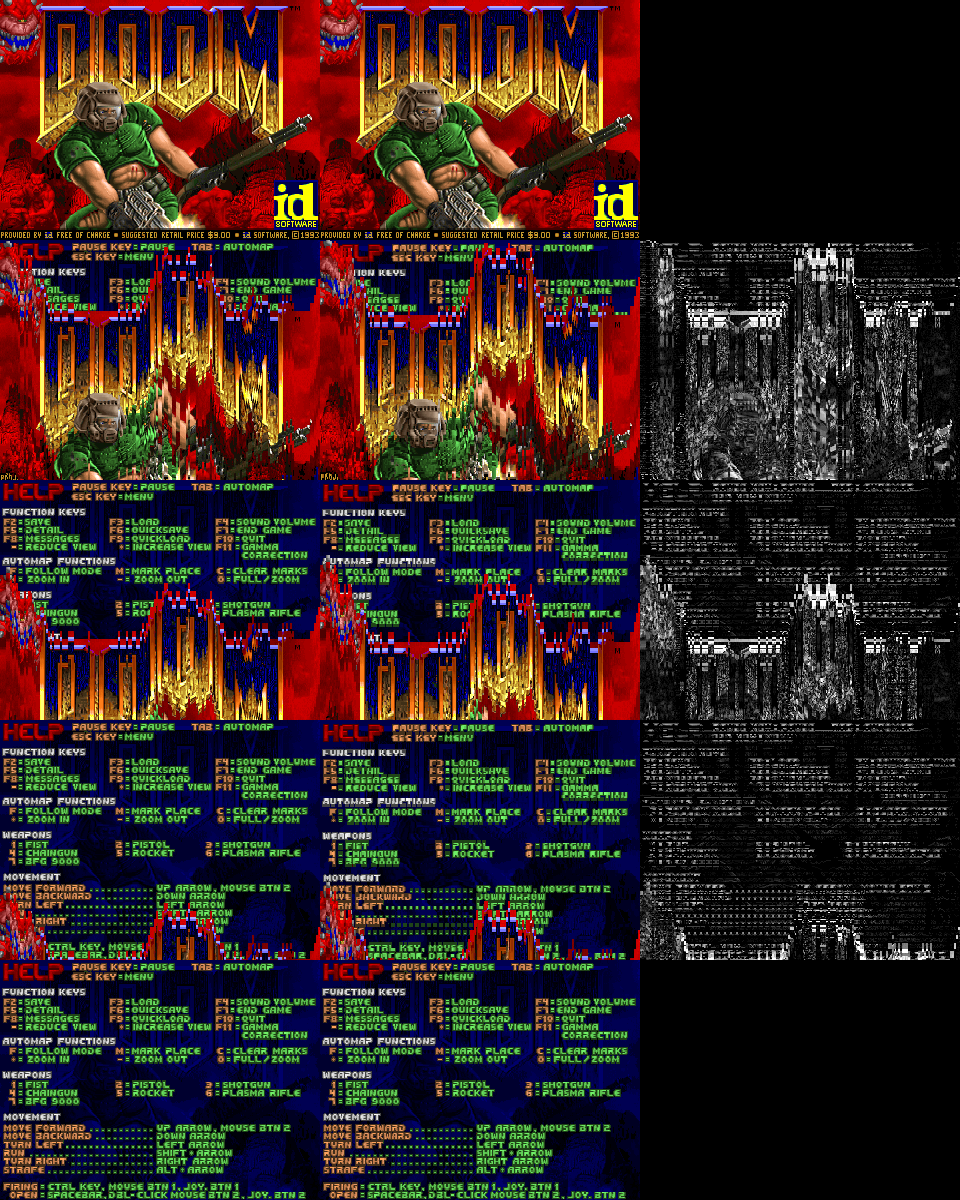
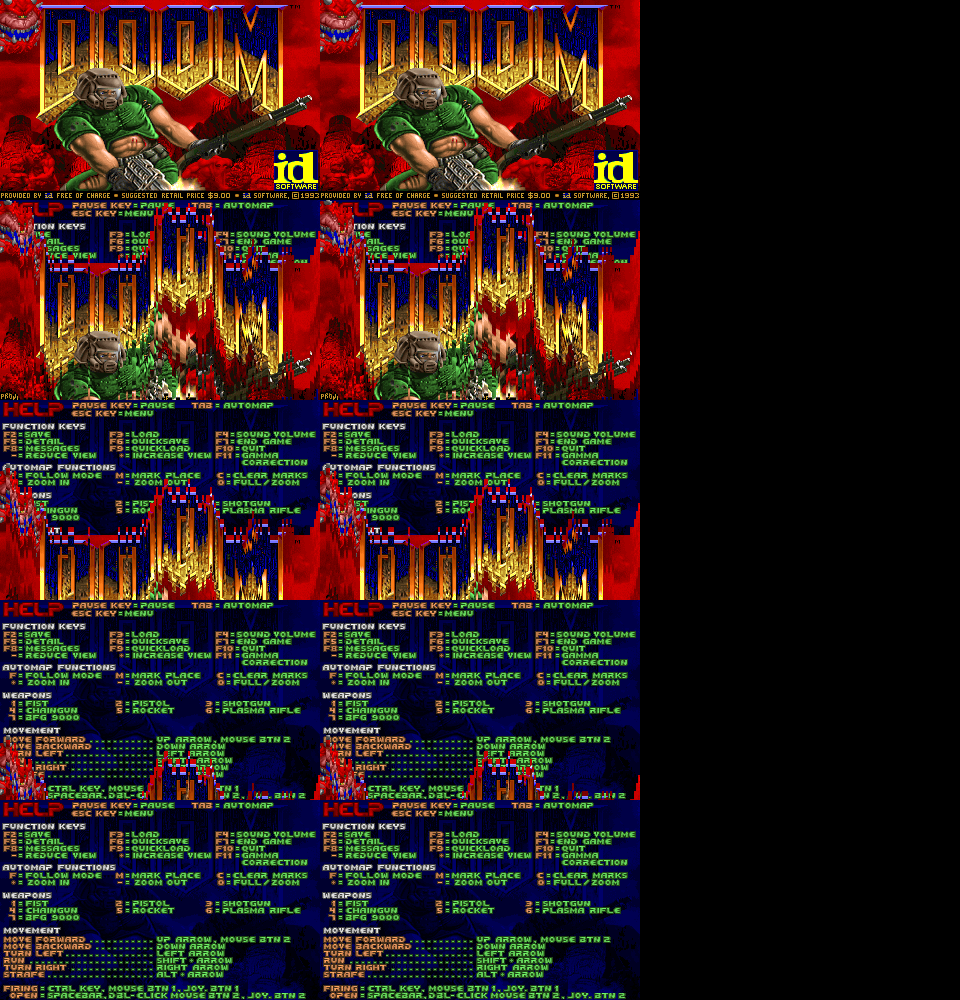
Refine sourceport melt to full-res 160-slice wipe

Changed region(s): [[0.0, 0.0, 1.0, 1.0]]

diff --git a/internal/render/automap/run.go b/internal/render/automap/run.go
@@ -14,10 +14,12 @@ import (
 type NextMapFunc func(current mapdata.MapName, secret bool) (*mapdata.Map, mapdata.MapName, error)
 
 const (
-	bootSplashHoldTics     = 3 * doomTicsPerSecond
-	meltVirtualH           = 200
-	sourcePortMeltInitCols = 320
-	sourcePortMeltMoveCols = sourcePortMeltInitCols / 2
+	bootSplashHoldTics = 3 * doomTicsPerSecond
+	meltVirtualH       = 200
+	// Sourceport melt uses Doom-like 2-pixel column pairs over a 320-wide
+	// virtual layout, i.e. 160 moving slices.
+	sourcePortMeltInitCols = 160
+	sourcePortMeltMoveCols = sourcePortMeltInitCols
 )
 
 type transitionKind int
@@ -60,10 +62,10 @@ type sessionGame struct {
 func RunAutomap(m *mapdata.Map, opts Options, nextMap NextMapFunc) error {
 	const (
 		doomLogicalW = 320
-		doomLogicalH = 240
-		doomWindowW  = 1280
-		doomWindowH  = 960
+		doomLogicalH = 200
 	)
+	windowW := opts.Width
+	windowH := opts.Height
 	if opts.SourcePortMode {
 		if opts.Width <= 0 {
 			opts.Width = 1280
@@ -72,8 +74,28 @@ func RunAutomap(m *mapdata.Map, opts Options, nextMap NextMapFunc) error {
 			opts.Height = 800
 		}
 	} else {
+		// Faithful mode: keep internal render fixed at 320x240.
 		opts.Width = doomLogicalW
 		opts.Height = doomLogicalH
+		// Window size honors requested width/height but is snapped to integer
+		// multiples of 320x240 to preserve aspect and pixel-perfect scaling.
+		if windowW <= 0 {
+			windowW = 1280
+		}
+		if windowH <= 0 {
+			windowH = 960
+		}
+		scaleX := windowW / doomLogicalW
+		scaleY := windowH / doomLogicalH
+		scale := scaleX
+		if scaleY < scale {
+			scale = scaleY
+		}
+		if scale < 1 {
+			scale = 1
+		}
+		windowW = doomLogicalW * scale
+		windowH = doomLogicalH * scale
 	}
 	sg := &sessionGame{
 		g:       newGame(m, opts),
@@ -90,10 +112,9 @@ func RunAutomap(m *mapdata.Map, opts Options, nextMap NextMapFunc) error {
 		ebiten.SetWindowSize(opts.Width, opts.Height)
 		ebiten.SetWindowResizingMode(ebiten.WindowResizingModeEnabled)
 	} else {
-		ebiten.SetWindowSize(doomWindowW, doomWindowH)
-		// Keep faithful mode's internal framebuffer fixed and let Ebiten scale it
-		// to the current window size for CRT-style aspect correction.
-		ebiten.SetWindowResizingMode(ebiten.WindowResizingModeEnabled)
+		ebiten.SetWindowSize(windowW, windowH)
+		// Faithful mode uses fixed integer scaling and aspect, so keep a fixed window.
+		ebiten.SetWindowResizingMode(ebiten.WindowResizingModeDisabled)
 	}
 	ebiten.SetWindowTitle(fmt.Sprintf("GD-DOOM Automap - %s", m.Name))
 	ebiten.SetScreenClearedEveryFrame(false)
@@ -168,22 +189,36 @@ func (sg *sessionGame) Update() error {
 func (sg *sessionGame) Draw(screen *ebiten.Image) {
 	sw := max(screen.Bounds().Dx(), 1)
 	sh := max(screen.Bounds().Dy(), 1)
+	tw := sw
+	th := sh
 	if sg.transitionActive() {
-		sg.ensureTransitionReady(sw, sh)
+		if sg.opts.SourcePortMode && sg.transition.initialized &&
+			(sg.transition.width != tw || sg.transition.height != th) {
+			// View size changed while transitioning; rebuild transition buffers.
+			sg.transition.initialized = false
+			sg.transition.pending = true
+			sg.transition.y = nil
+		}
+		sg.ensureTransitionReady(tw, th)
 		if sg.transition.initialized {
 			sg.drawTransitionFrame(screen, sw, sh)
 			return
 		}
 		sg.clearTransition()
 	}
+	if sg.opts.SourcePortMode {
+		// Render directly to the actual screen target to avoid any
+		// intermediate-resolution mismatch.
+		sg.g.Layout(sw, sh)
+		sg.g.Draw(screen)
+		sg.captureLastFrame(screen)
+		return
+	}
 	if sg.presentSurface == nil || sg.presentSurface.Bounds().Dx() != sw || sg.presentSurface.Bounds().Dy() != sh {
 		sg.presentSurface = ebiten.NewImage(sw, sh)
 	}
 	sg.drawGamePresented(sg.presentSurface, sg.g)
 	screen.DrawImage(sg.presentSurface, nil)
-	if sg.opts.SourcePortMode {
-		sg.captureLastFrame(sg.presentSurface)
-	}
 }
 
 func (sg *sessionGame) drawGamePresented(dst *ebiten.Image, g *game) {
@@ -201,6 +236,7 @@ func (sg *sessionGame) drawGamePresented(dst *ebiten.Image, g *game) {
 		sg.captureLastFrame(sg.faithfulSurface)
 		return
 	}
+	g.Layout(max(dst.Bounds().Dx(), 1), max(dst.Bounds().Dy(), 1))
 	g.Draw(dst)
 }
 
@@ -212,30 +248,23 @@ func (sg *sessionGame) drawFaithfulPresented(dst, src *ebiten.Image) {
 	sh := max(dst.Bounds().Dy(), 1)
 	vw := max(src.Bounds().Dx(), 1)
 	vh := max(src.Bounds().Dy(), 1)
-	if !sg.opts.VerticalStretch {
-		op := &ebiten.DrawImageOptions{}
-		op.GeoM.Scale(float64(sw)/float64(vw), float64(sh)/float64(vh))
-		dst.DrawImage(src, op)
-		return
-	}
-	dstW := sw
-	dstH := (dstW * 3) / 4 // Present faithful mode inside a 4:3 display area.
-	if dstH > sh {
-		dstH = sh
-		dstW = (dstH * 4) / 3
-	}
-	if dstW < 1 {
-		dstW = 1
-	}
-	if dstH < 1 {
-		dstH = 1
-	}
-	offX := (sw - dstW) / 2
-	offY := (sh - dstH) / 2
 	dst.Fill(color.Black)
+	ix := sw / vw
+	iy := sh / vh
+	n := ix
+	if iy < n {
+		n = iy
+	}
+	if n < 1 {
+		n = 1
+	}
+	scaleX := float64(n)
+	scaleY := float64(n)
+	offX := (float64(sw) - float64(vw)*scaleX) * 0.5
+	offY := (float64(sh) - float64(vh)*scaleY) * 0.5
 	op := &ebiten.DrawImageOptions{}
-	op.GeoM.Scale(float64(dstW)/float64(vw), float64(dstH)/float64(vh))
-	op.GeoM.Translate(float64(offX), float64(offY))
+	op.GeoM.Scale(scaleX, scaleY)
+	op.GeoM.Translate(offX, offY)
 	dst.DrawImage(src, op)
 }
 
@@ -271,6 +300,7 @@ func (sg *sessionGame) drawGameTransitionSurface(dst *ebiten.Image, g *game) {
 		return
 	}
 	if sg.opts.SourcePortMode {
+		g.Layout(max(dst.Bounds().Dx(), 1), max(dst.Bounds().Dy(), 1))
 		g.Draw(dst)
 		return
 	}
@@ -348,10 +378,6 @@ func (sg *sessionGame) ensureTransitionReady(width, height int) {
 	}
 	tw := width
 	th := height
-	if !sg.opts.SourcePortMode {
-		tw = max(sg.g.viewW, 1)
-		th = max(sg.g.viewH, 1)
-	}
 	if tw <= 0 || th <= 0 {
 		return
 	}
@@ -435,14 +461,8 @@ func (sg *sessionGame) tickTransition() {
 			t.y = initMeltColumns(t.width)
 		}
 	}
+	// Advance wipe by Doom tics (one melt step per game tic) in both modes.
 	meltTicks := 1
-	if sg.opts.SourcePortMode {
-		// Source-port path keeps existing resolution-scaled melt pacing.
-		meltTicks = (t.height + 199) / 200
-		if meltTicks < 1 {
-			meltTicks = 1
-		}
-	}
 	done := false
 	if sg.opts.SourcePortMode {
 		done = stepMeltSlicesVirtual(t.y, meltVirtualH, t.width, t.height, t.fromPix, t.toPix, t.workPix, meltTicks, sourcePortMeltMoveColumns())
@@ -478,10 +498,6 @@ func (sg *sessionGame) drawTransitionFrame(screen *ebiten.Image, sw, sh int) {
 	t := &sg.transition
 	if t.work == nil {
 		screen.Fill(color.Black)
-		return
-	}
-	if !sg.opts.SourcePortMode {
-		sg.drawFaithfulPresented(screen, t.work)
 		return
 	}
 	tw := max(t.width, 1)
@@ -521,10 +537,13 @@ func (sg *sessionGame) clearTransition() {
 }
 
 func (sg *sessionGame) Layout(outsideWidth, outsideHeight int) (int, int) {
-	if !sg.opts.SourcePortMode {
-		// Faithful mode keeps internal render size fixed and handles display
-		// aspect correction in Draw via a 4:3 presentation transform.
-		return max(outsideWidth, 1), max(outsideHeight, 1)
+	if sg.opts.SourcePortMode {
+		w := max(outsideWidth, 1)
+		h := max(outsideHeight, 1)
+		// Keep game internals synced, but always expose native output size
+		// in sourceport mode so transition and steady-state render targets match.
+		sg.g.Layout(w, h)
+		return w, h
 	}
 	return sg.g.Layout(outsideWidth, outsideHeight)
 }

diff --git a/internal/app/run_parse.go b/internal/app/run_parse.go
@@ -33,8 +33,8 @@ func RunParse(args []string, stdout io.Writer, stderr io.Writer) int {
 	defaultRender := true
 	defaultDebug := false
 	defaultMultiCore := true
-	defaultWidth := 2560
-	defaultHeight := 1440
+	defaultWidth := 1280
+	defaultHeight := 800
 	defaultZoom := 0.0
 	defaultPlayer := 1
 	defaultSkill := 3
@@ -43,7 +43,6 @@ func RunParse(args []string, stdout io.Writer, stderr io.Writer) int {
 	defaultInvuln := false
 	defaultLineColorMode := "parity"
 	defaultSourcePortMode := false
-	defaultVerticalStretch := false
 	defaultAllCheats := false
 	defaultStartInMap := false
 	defaultImportPCSpeaker := true
@@ -104,9 +103,6 @@ func RunParse(args []string, stdout io.Writer, stderr io.Writer) int {
 		if cfg.SourcePortMode != nil {
 			defaultSourcePortMode = *cfg.SourcePortMode
 		}
-		if cfg.VerticalStretch != nil {
-			defaultVerticalStretch = *cfg.VerticalStretch
-		}
 		if cfg.AllCheats != nil {
 			defaultAllCheats = *cfg.AllCheats
 		}
@@ -153,7 +149,6 @@ func RunParse(args []string, stdout io.Writer, stderr io.Writer) int {
 	invuln := fs.Bool("invuln", defaultInvuln, "start with invulnerability (iddqd-like)")
 	lineColorMode := fs.String("line-color-mode", defaultLineColorMode, "line color mode for automap")
 	sourcePortMode := fs.Bool("sourceport-mode", defaultSourcePortMode, "enable source-port style heading-follow rotation defaults")
-	verticalStretch := fs.Bool("vertical-stretch", defaultVerticalStretch, "faithful mode: apply 4:3 vertical-stretch presentation")
 	allCheats := fs.Bool("all-cheats", defaultAllCheats, "legacy alias for startup full cheats (equivalent to -cheat-level=3 -invuln=true)")
 	startInMap := fs.Bool("start-in-map", defaultStartInMap, "start with automap open")
 	importPCSpeaker := fs.Bool("import-pcspeaker", defaultImportPCSpeaker, "import Doom PC speaker sounds (DP* lumps) at startup")
@@ -357,7 +352,6 @@ func RunParse(args []string, stdout io.Writer, stderr io.Writer) int {
 			Invulnerable:    resolvedInvuln,
 			LineColorMode:   resolvedLineColorMode,
 			SourcePortMode:  *sourcePortMode,
-			VerticalStretch: *verticalStretch,
 			NoVsync:         *noVsync,
 			AllCheats:       *allCheats,
 			StartInMapMode:  *startInMap,

diff --git a/internal/render/automap/melt.go b/internal/render/automap/melt.go
@@ -172,9 +172,9 @@ func stepMeltSlices(y []int, width, height int, fromPix, toPix, workPix []byte, 
 	return false
 }
 
-// stepMeltSlicesVirtual advances melt state in a virtual-height space and maps
-// results to real pixels. This keeps melt motion profile stable across output
-// resolutions while still applying wipe columns across the full real image.
+// stepMeltSlicesVirtual advances melt state in a virtual-height space and then
+// applies a per-slice vertical shift on full-resolution source/target buffers.
+// This preserves crisp native pixels while keeping Doom-like melt progression.
 func stepMeltSlicesVirtual(y []int, virtualH int, width, height int, fromPix, toPix, workPix []byte, ticks int, slices int) bool {
 	if ticks <= 0 {
 		return false
@@ -242,18 +242,15 @@ func composeMeltSlicesVirtual(y []int, virtualH, width, height int, fromPix, toP
 		}
 		for row := 0; row < height; row++ {
 			dstOff := (row*width + x0) * 4
-			vRow := (row * virtualH) / height
 			if row < cutReal {
-				srcRow := (vRow * height) / virtualH
-				srcOff := (srcRow*width + x0) * 4
+				srcOff := (row*width + x0) * 4
 				copy(workPix[dstOff:dstOff+colBytes], toPix[srcOff:srcOff+colBytes])
 				continue
 			}
-			srcV := vRow - cut
-			if srcV < 0 {
-				srcV = 0
+			srcRow := row - cutReal
+			if srcRow < 0 {
+				srcRow = 0
 			}
-			srcRow := (srcV * height) / virtualH
 			srcOff := (srcRow*width + x0) * 4
 			copy(workPix[dstOff:dstOff+colBytes], fromPix[srcOff:srcOff+colBytes])
 		}

diff --git a/internal/render/automap/statusbar.go b/internal/render/automap/statusbar.go
@@ -72,10 +72,11 @@ func (g *game) hudTransform() (sx, sy, ox, oy float64) {
 	if !g.opts.SourcePortMode {
 		return sx, sy, 0, 0
 	}
-	// Keep Doom HUD proportions on widescreen by using uniform scale and centering.
-	sy = float64(max(g.viewH, 1)) / statusBaseH
+	// Keep Doom HUD proportions on widescreen by using uniform scale, centered
+	// horizontally and anchored to screen bottom.
 	sx = sy
 	ox = (float64(g.viewW) - statusBaseW*sx) * 0.5
+	oy = float64(g.viewH) - statusBaseH*sy
 	if ox < 0 {
 		ox = 0
 		sx = float64(max(g.viewW, 1)) / statusBaseW
@@ -191,13 +192,12 @@ func (g *game) drawHUDMessage(screen *ebiten.Image, msg string, x, y float64) {
 	if strings.TrimSpace(msg) == "" {
 		return
 	}
-	sx, sy, ox, oy := g.hudTransform()
+	sx, sy, ox, _ := g.hudTransform()
 	px := (float64(huMsgX) + x) * sx
 	py := (float64(huMsgY) + y) * sy
 	maxX := float64(g.viewW)
 	if g.opts.SourcePortMode {
 		px += ox
-		py += oy
 		maxX = ox + statusBaseW*sx
 	}
 	if len(g.opts.MessageFontBank) == 0 {

diff --git a/internal/render/automap/melt_compare_test.go b/internal/render/automap/melt_compare_test.go
@@ -18,7 +18,7 @@ import (
 func TestMeltCompareRender(t *testing.T) {
 	const (
 		w = 320
-		h = 240
+		h = 200
 	)
 
 	fromPix, toPix := buildMeltCompareBuffers(t, w, h)
@@ -200,7 +200,7 @@ func simulateSourceportMeltFrames(w, h int, fromPix, toPix []byte) [][]byte {
 	work := append([]byte(nil), fromPix...)
 	mult := sourcePortMeltRNGScale(h)
 	y := initMeltColumnsScaled(sourcePortMeltInitColumns(), mult)
-	meltTicks := sourcePortMeltRNGScale(h)
+	meltTicks := 1
 	frames := make([][]byte, 0, 128)
 	frames = append(frames, append([]byte(nil), work...))
 	for i := 0; i < 4096; i++ {

diff --git a/internal/app/config.go b/internal/app/config.go
@@ -25,7 +25,6 @@ type fileConfig struct {
 	ImportTextures  *bool    `toml:"import_textures"`
 	LineColorMode   *string  `toml:"line_color_mode"`
 	SourcePortMode  *bool    `toml:"sourceport_mode"`
-	VerticalStretch *bool    `toml:"vertical_stretch"`
 	AllCheats       *bool    `toml:"all_cheats"`
 	StartInMap      *bool    `toml:"start_in_map"`
 	ImportPCSpeaker *bool    `toml:"import_pcspeaker"`

diff --git a/internal/render/automap/types.go b/internal/render/automap/types.go
@@ -13,7 +13,6 @@ type Options struct {
 	Invulnerable    bool
 	LineColorMode   string
 	SourcePortMode  bool
-	VerticalStretch bool
 	NoVsync         bool
 	AllCheats       bool
 	StartInMapMode  bool
